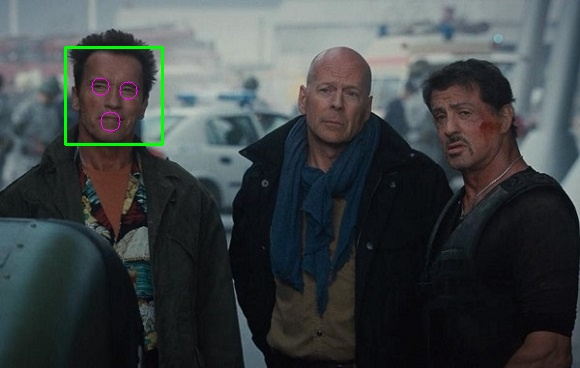
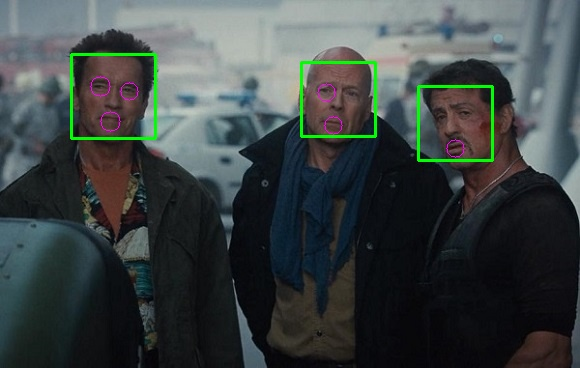
puttext above rect

Changed region(s): [[0.0931, 0.1196, 0.3103, 0.4185], [0.4966, 0.1495, 0.6517, 0.3886], [0.7138, 0.2092, 0.869, 0.4484]]

diff --git a/src/main/controllers/MainScreenController.java b/src/main/controllers/MainScreenController.java
@@ -301,8 +301,11 @@ public class MainScreenController implements Initializable
 
         List<Rect> listOfFaces = faces.toList();
         for (Rect face : listOfFaces) {
-            //Point center = new Point(face.x + face.width / 2, face.y + face.height / 2);
+            Point center = new Point(face.x + face.width / 2, face.y + face.height / 2);
             Imgproc.rectangle(frame, face.tl(), face.br(), new Scalar(0, 255, 0), 2);
+//            Imgproc.putText(frame, "label", new Point(face.x, face.y), Imgproc.FONT_HERSHEY_SIMPLEX, 1, new Scalar(0, 0, 0), 4);
+            Imgproc.putText(frame,"name", new Point(face.x-10, face.y-10) ,Imgproc.FONT_HERSHEY_SIMPLEX, 2.0, new Scalar(0, 255, 0), 2, Imgproc.FILLED, false);
+
             Mat faceROI = grayFrame.submat(face);
             // -- In each face, detect eyes
             MatOfRect eyes = new MatOfRect();
